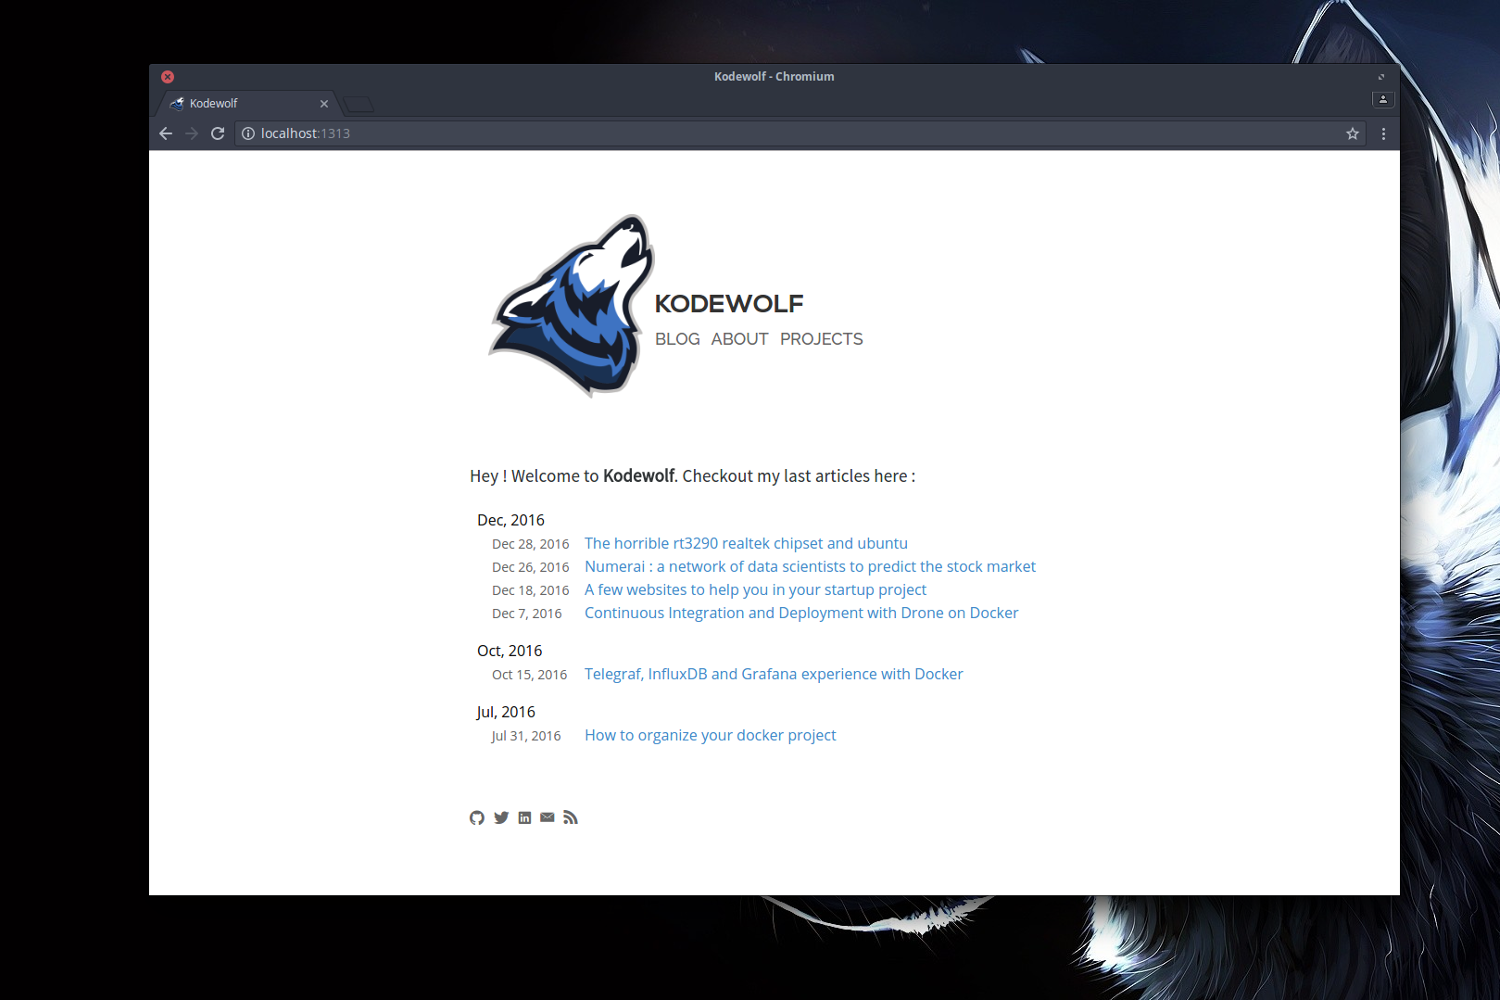
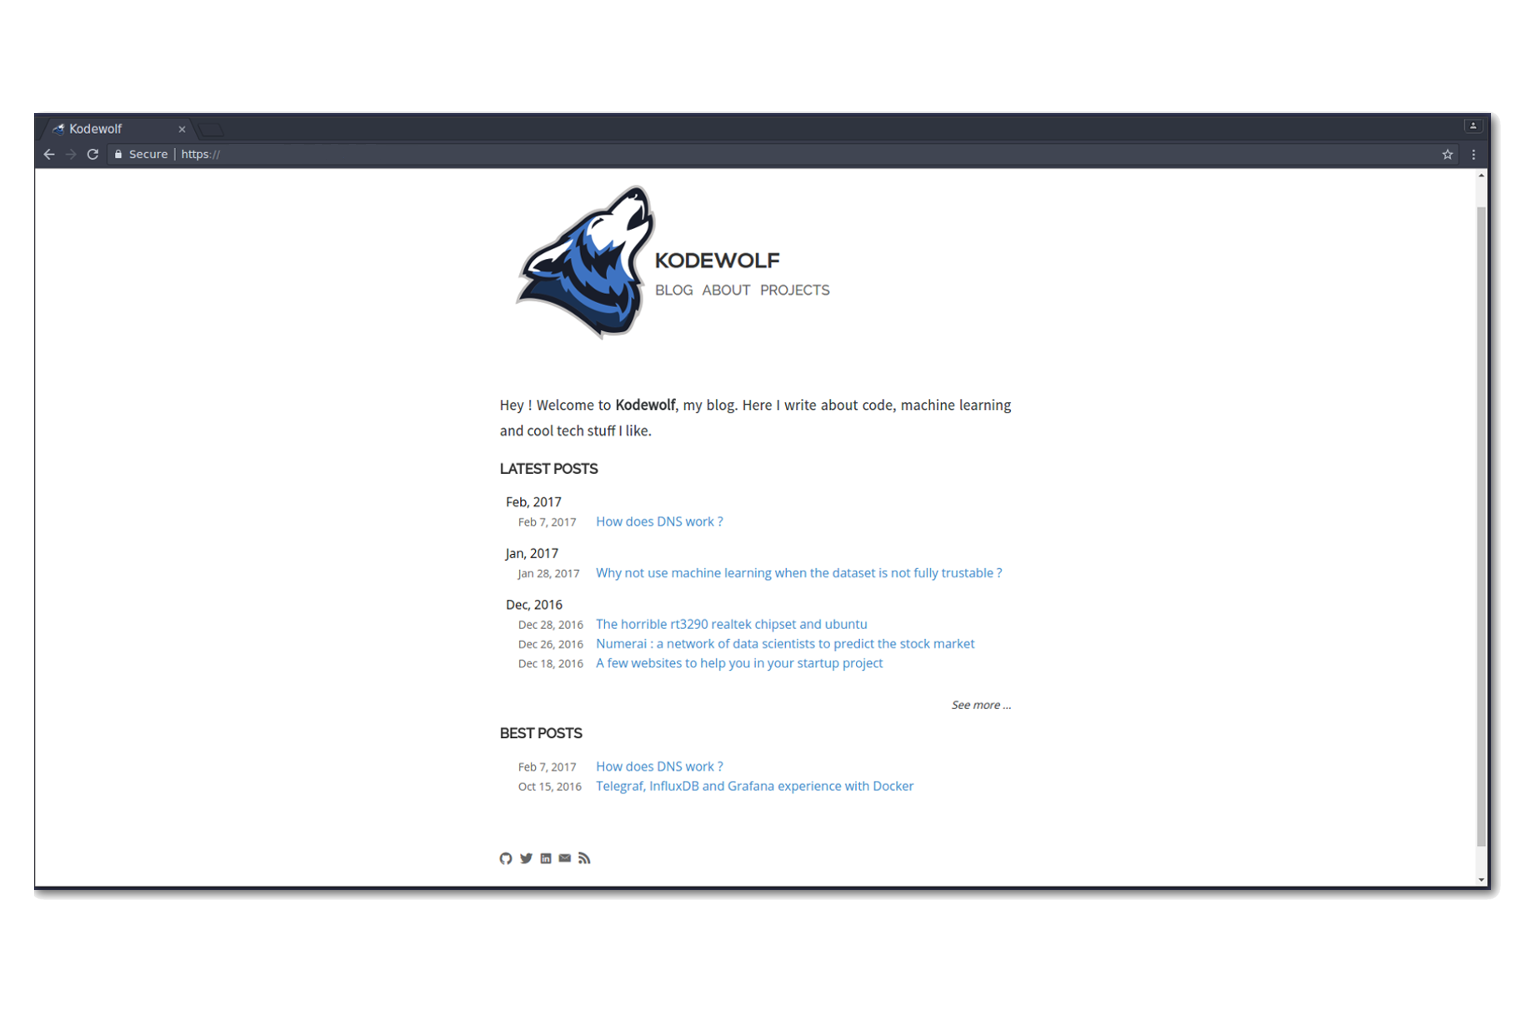
Update changelog and images for v0.7.0

diff --git a/CHANGELOG.md b/CHANGELOG.md
@@ -1,5 +1,12 @@
 # Changelog
 
+> v0.7.0
+
+- Speed up a bit the theme
+- Add twitter cards support
+- Simplify the README
+- Change the homepage to display latest and bests posts
+
 > v0.6.0
 
 - Add progressive loading of images
